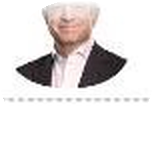
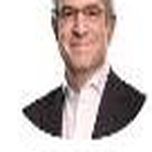
fix: full head-and-shoulder portraits (remove double crop + fade)

diff --git a/scripts/build_relationships.js b/scripts/build_relationships.js
@@ -57,9 +57,10 @@ const DATA = [
     note: 'Undisclosed relationship with a direct report', outcome: 'dismissed' },
 ];
 
-/* ---- 頭像：取自原圖左欄人物照（放大裁切 + SVG 圓形 clip，2026-11-13）----
- * 裁切時留 38px 餘量，顯示時以 52px 繪 42px 圓，邊緣 logo／虛線被推出圓外。
- * 缺檔時退回中性首字母圓徽，不影響出圖。 */
+/* ---- 頭像：取自原圖左欄人物照，完整頭肩裁切（2026-11-13 修正）----
+ * 以膚色峰值定位臉部 → 頭頂上方硬裁掉公司 logo 帶、底部裁掉虛線帶，
+ * 保留原白底並在素材層做圓角，SVG 只貼一次、不做二次裁切。
+ * 缺檔時退回中性首字母圓角徽，不影響出圖。 */
 const AV_SLUGS = ['stonecipher', 'hurd', 'krzanich', 'easterbrook', 'bezos',
   'gates', 'zucker', 'shell', 'shaw', 'freixe'];
 const AVATARS = AV_SLUGS.map((s) => {
@@ -148,17 +149,17 @@ DATA.forEach((r, i) => {
 
   svg.push(`<line x1="${M}" y1="${y}" x2="${W - M}" y2="${y}" stroke="${C.line}" stroke-width="1"/>`);
 
-  /* 頭像圓徽（52px 圖繪進 42px 圓，輕微放大以避開原圖 logo／虛線） */
-  const acx = M + 24, acy = y + 40, clipId = `avClip${i}`;
-  defs.push(`<clipPath id="${clipId}"><circle cx="${acx}" cy="${acy}" r="21"/></clipPath>`);
+  /* 頭像：完整頭肩人像，素材自帶圓角白底，不再做二次裁切（2026-11-13 修正） */
+  const acx = M + 24, acy = y + 40;
+  const avS = 56, avX = acx - avS / 2, avY = acy - avS / 2;
   if (AVATARS[i]) {
-    svg.push(`<g clip-path="url(#${clipId})"><image x="${acx - 26}" y="${acy - 26 + (r.avDy || 0)}" width="52" height="52" href="${AVATARS[i]}"/></g>`);
+    svg.push(`<image x="${avX}" y="${avY}" width="${avS}" height="${avS}" href="${AVATARS[i]}"/>`);
   } else {
-    svg.push(`<circle cx="${acx}" cy="${acy}" r="21" fill="${C.chip}"/>`);
+    svg.push(`<rect x="${avX}" y="${avY}" width="${avS}" height="${avS}" rx="16" fill="${C.chip}"/>`);
     const initials = r.name.split(' ').map((p) => p[0]).join('').toUpperCase().slice(0, 2);
     svg.push(t(acx, acy + 6, initials, { size: 15, weight: 700, fill: C.gray, anchor: 'middle' }));
   }
-  svg.push(`<circle cx="${acx}" cy="${acy}" r="21" fill="none" stroke="#D6DAE1" stroke-width="1.5"/>`);
+  svg.push(`<rect x="${avX}" y="${avY}" width="${avS}" height="${avS}" rx="16" fill="none" stroke="#D6DAE1" stroke-width="1.5"/>`);
 
   /* 姓名 / 公司職位 / 事件 */
   svg.push(t(M + 64, y + 27, r.name, { size: 22, weight: 700 }));
